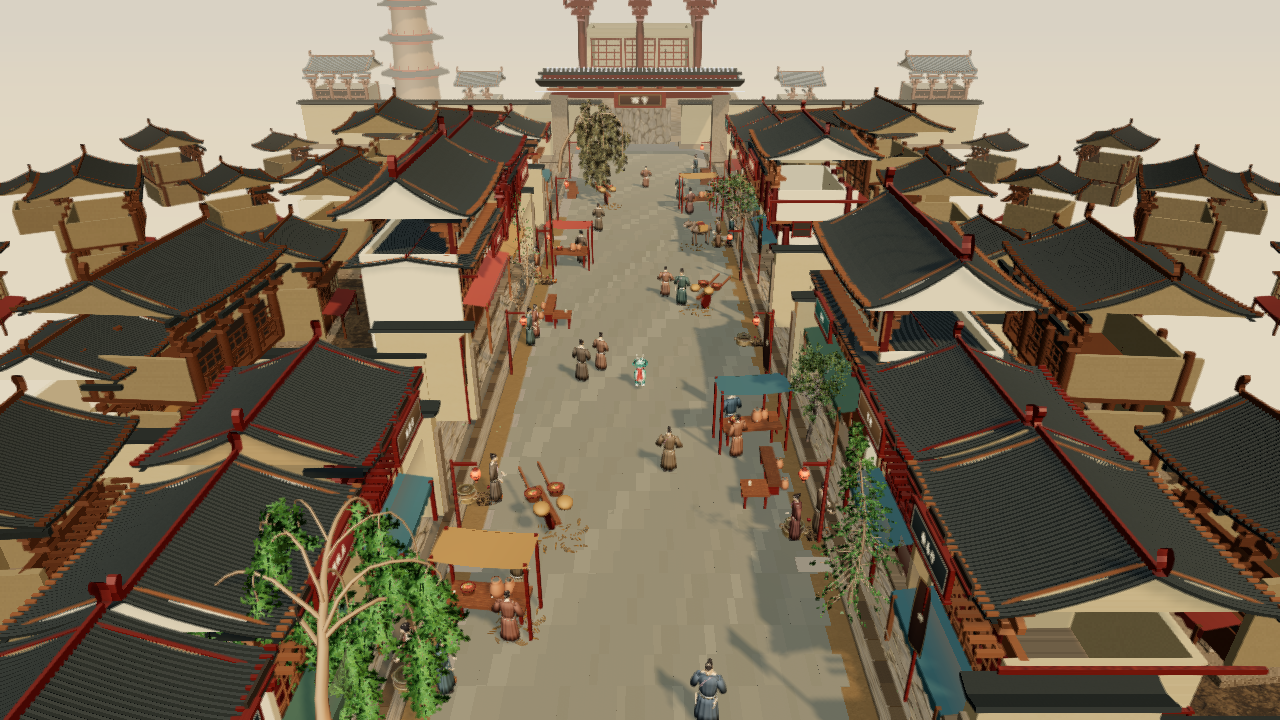
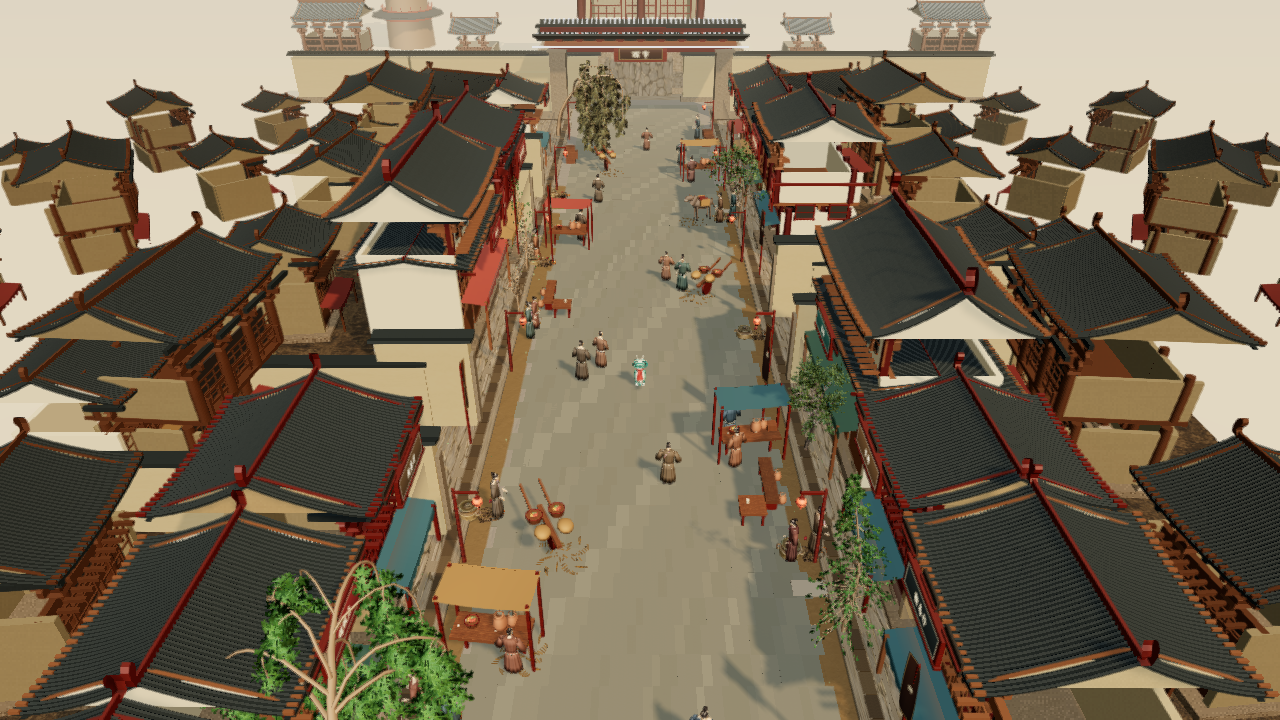
Refresh the handoff record with the architecture rounds and open items

diff --git a/docs/CONTINUE.md b/docs/CONTINUE.md
@@ -1,5 +1,71 @@
 # 当前续做记录（2026-10-31）
 
+## 2026-11-03：首街建筑补完（第 12–37 轮）— 已交付验收
+
+用户指令："你专心做建筑，先别一直改龙了" / "龙最近半个月都不做"。
+这 26 轮**全部在建筑、街景、渲染与功能验证，龙一行未改**。
+
+### 主要成果（按时间顺序）
+
+- **材质名匹配整体失效（重大 bug）**：`kitApplySharedMaterials` 装载时已把
+  `mat_*` 换成 `street-*`，场景代码却仍按 `mat_*` 匹配，
+  导致"按铺面换墙面与布篷颜色"的整套逻辑**从未生效**。
+  按"同类问题一次改完"排查 4 处，全部修正。
+- **后处理管线**：`composer` / `fxaaPass` / `bloomPass` 声明了却从未创建。
+  接上 Composer + Bloom + OutputPass + FXAA；踩到泛光把阴影填平、
+  缺 OutputPass 导致整体暗一档两个坑，均已修。
+- **验收口径修正**：接 composer 后 `renderer.info` 每 pass 自动清零，
+  calls 只剩 1。改为 `autoReset=false` + 每帧 reset。
+- **阴影覆盖**：太阳阴影相机原只覆盖 ±34m，街长 72m、两座门楼全在范围外。
+  扩到 ±52/±56、far 170。
+- **重檐铺面**：新增 `storey=3` 档（三开间、8.5m），成为全街最高一档。
+- **实测半宽修正**：各档铺面基座半宽逐个量出（常铺 2.345 / tier2 2.545 /
+  酒肆 3.326 / 重檐 3.946），修掉酒肆长期侵入邻铺 0.42m 的缺陷。
+- **坊内曲巷 + 巷口压瓦护墙**、**坊门斗拱 + 门额**、**排水明沟 + 路缘石**、
+  **店内货架**、**街面推车与驮驴**、**车辙与散落草料**、**灯笼重做**、
+  **街树改用 lod0**、**远山改为天空着色**、**坊外远景天际线**。
+- **UV 拉伸修正（同类两例）**：踏道台阶 20:1、殿堂台基 263:1，
+  均改为按构件尺寸分配 repeat（basecolor/normal/roughness 三图同步）。
+  坊墙墙基同类修正；木料的"拉伸"经画面确认是纵向木纹，**主动不改**。
+- **深红方块缺陷已修复**：追查 7 轮、7 种方法失败，因为一直假设它属于门楼；
+  真相是 13m 外殿堂台基的下沿压边石（`materials.darkWood`，偏红褐）。
+  隐藏 `ward-halls` 整组后红方块消失，一次截图即定位。
+- **石狮三版失败并移除**：程序化体块拼不出可辨认的狮子，
+  留三版都读成"球堆/方塔"。已删除，门洞改为只保留门柱、照壁与铺装。
+
+### 功能与兼容验证（首次实测交互）
+
+| 能力 | 结果 |
+| --- | --- |
+| 步行 W/A/S/D | 可用 |
+| 飞行（含 Q/E 升降） | 可用 |
+| 贴近细看 | 可用 |
+| 手机横屏触摸摇杆 | 可用（Pointer Events） |
+| 资源缺失降级 | 封面停住并给出具体原因，不静默失败 |
+| 真机帧率与手感 | **未验证** |
+
+### 当前验收数据（2026-11-03，第 37 轮）
+
+- desktop / landscape 均 passed
+- 4042 / 4112 calls，约 374 / 384 万三角形（含后处理全部 pass）
+- 15 个 GLB 全部加载、0 失败；164 个实例
+- 24 间铺面、9 种行当招牌、min gap 0.12m、实测基座重叠 0、glError=0
+
+### 仍未达到用户标准的地方（不隐瞒）
+
+1. **龙的鬃是扁平扇形叶片**（像孔雀开屏），与概念图的蓬松鬃毛差距很大。
+   按用户要求，这半个月未改动。
+2. 铺面格扇仍偏"木格片"，缺少棂条厚度与投影。
+3. 远山在正常步行视角下只占画面上部一条窄带，偏淡。
+4. 灯笼、陶罐等小物件经不起极近距离审视。
+5. **软件渲染只有约 3.3 fps**，真实 GPU 帧率与手感未验证；
+   手机尺寸模拟不等于真机触摸。
+
+### 待用户授权（不自行推进）
+
+- **扩全城**：当前只有西市一条街（24 间铺面）。
+- **ChatGPT Sites 托管**：未获实际授权，未做任何部署动作。
+
 ## 2026-11-02：首街第四轮（渲染与市井层次）— 已交付验收
 
 本轮仍在建筑/街景/渲染，龙未改动。**首街已按目标要求提交用户验收，等待回复。**
